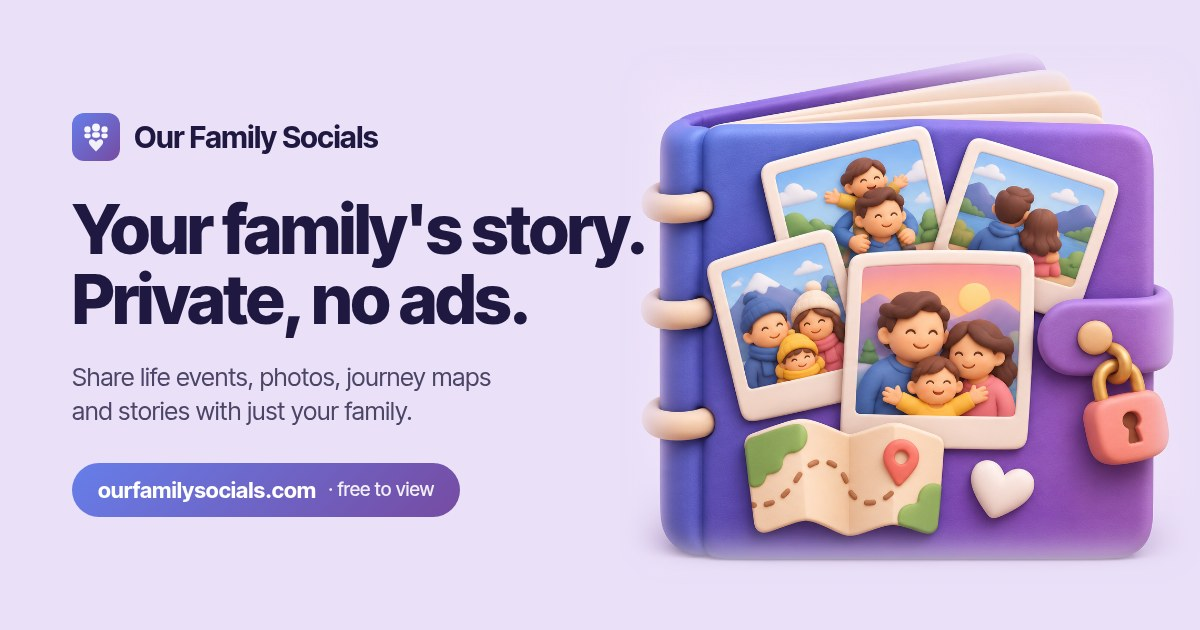
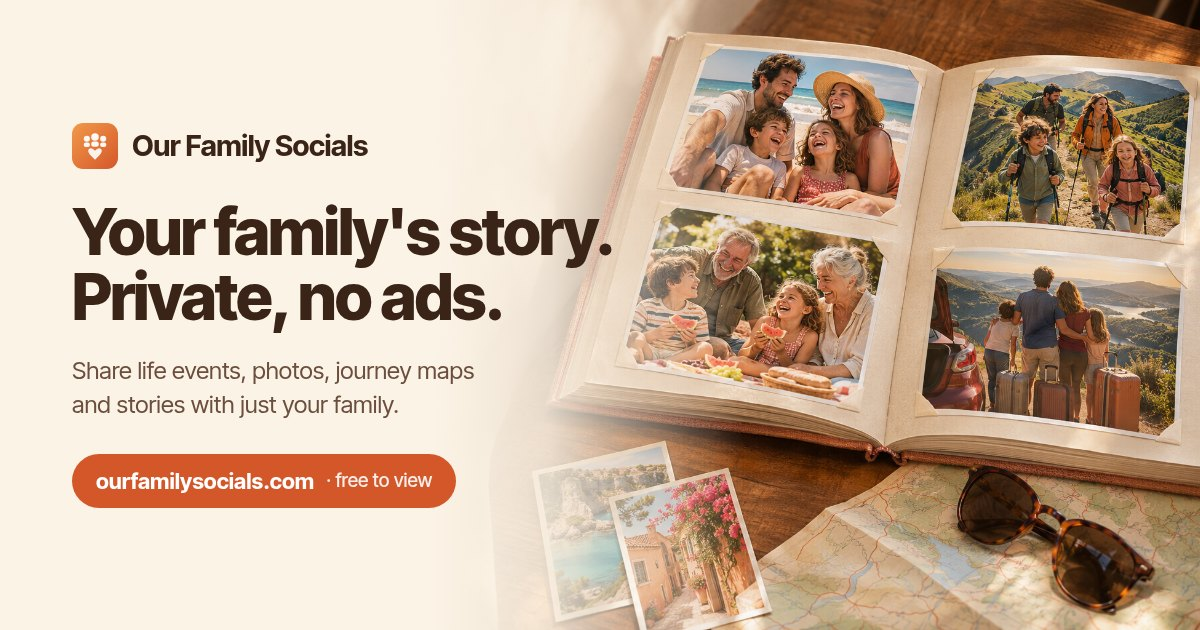
Share card v2: warm palette, photoreal family holiday album

diff --git a/frontend/index.html b/frontend/index.html
@@ -16,7 +16,7 @@
     <meta property="og:image" content="https://www.ourfamilysocials.com/og-share.jpg" />
     <meta property="og:image:width" content="1200" />
     <meta property="og:image:height" content="630" />
-    <meta property="og:image:alt" content="Our Family Socials: a private family album with photos, a journey map and stories" />
+    <meta property="og:image:alt" content="Our Family Socials: an open family photo album with holiday photos from the beach, mountains and road trips" />
     <meta property="og:site_name" content="Our Family Socials" />
     <meta property="og:locale" content="en_US" />
     <meta name="twitter:card" content="summary_large_image" />
@@ -24,7 +24,7 @@
     <meta name="twitter:title" content="Our Family Socials - Private Family Social Network" />
     <meta name="twitter:description" content="Our Family Socials is a private, ad-free social network where families share life events, photos, journey maps and stories. Free to view, Pro from $9/month." />
     <meta name="twitter:image" content="https://www.ourfamilysocials.com/og-share.jpg" />
-    <meta name="twitter:image:alt" content="Our Family Socials: a private family album with photos, a journey map and stories" />
+    <meta name="twitter:image:alt" content="Our Family Socials: an open family photo album with holiday photos from the beach, mountains and road trips" />
     <!-- SEO:END -->
 
     <!-- Favicon -->

diff --git a/frontend/src/content/site.js b/frontend/src/content/site.js
@@ -11,7 +11,7 @@ export const SUPPORT_EMAIL = 'support@ourfamilysocials.com'
 export const OG_IMAGE = `${SITE_ORIGIN}/og-share.jpg`
 export const OG_IMAGE_WIDTH = 1200
 export const OG_IMAGE_HEIGHT = 630
-export const OG_IMAGE_ALT = 'Our Family Socials: a private family album with photos, a journey map and stories'
+export const OG_IMAGE_ALT = 'Our Family Socials: an open family photo album with holiday photos from the beach, mountains and road trips'
 
 // Published prices, taken from the /pricing page (src/pages/PricingPage.jsx).
 export const PRICING = {
